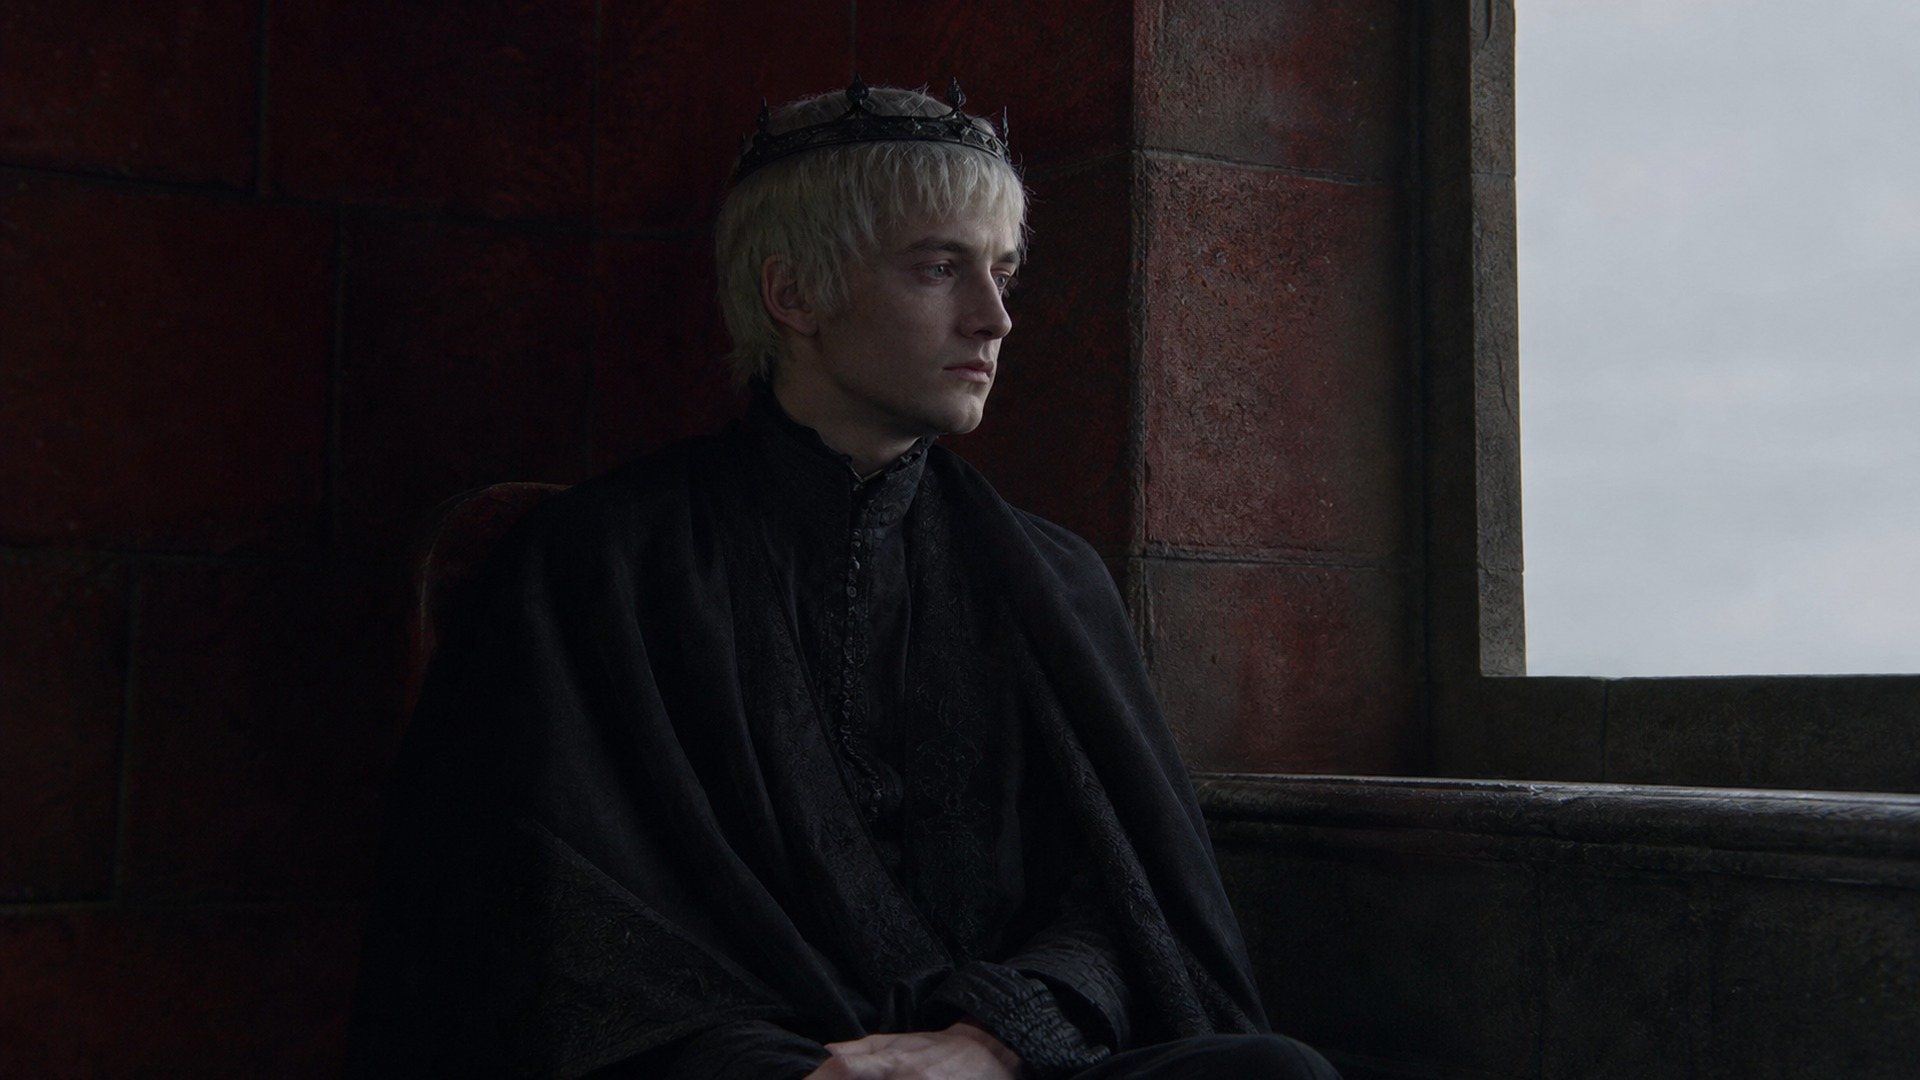
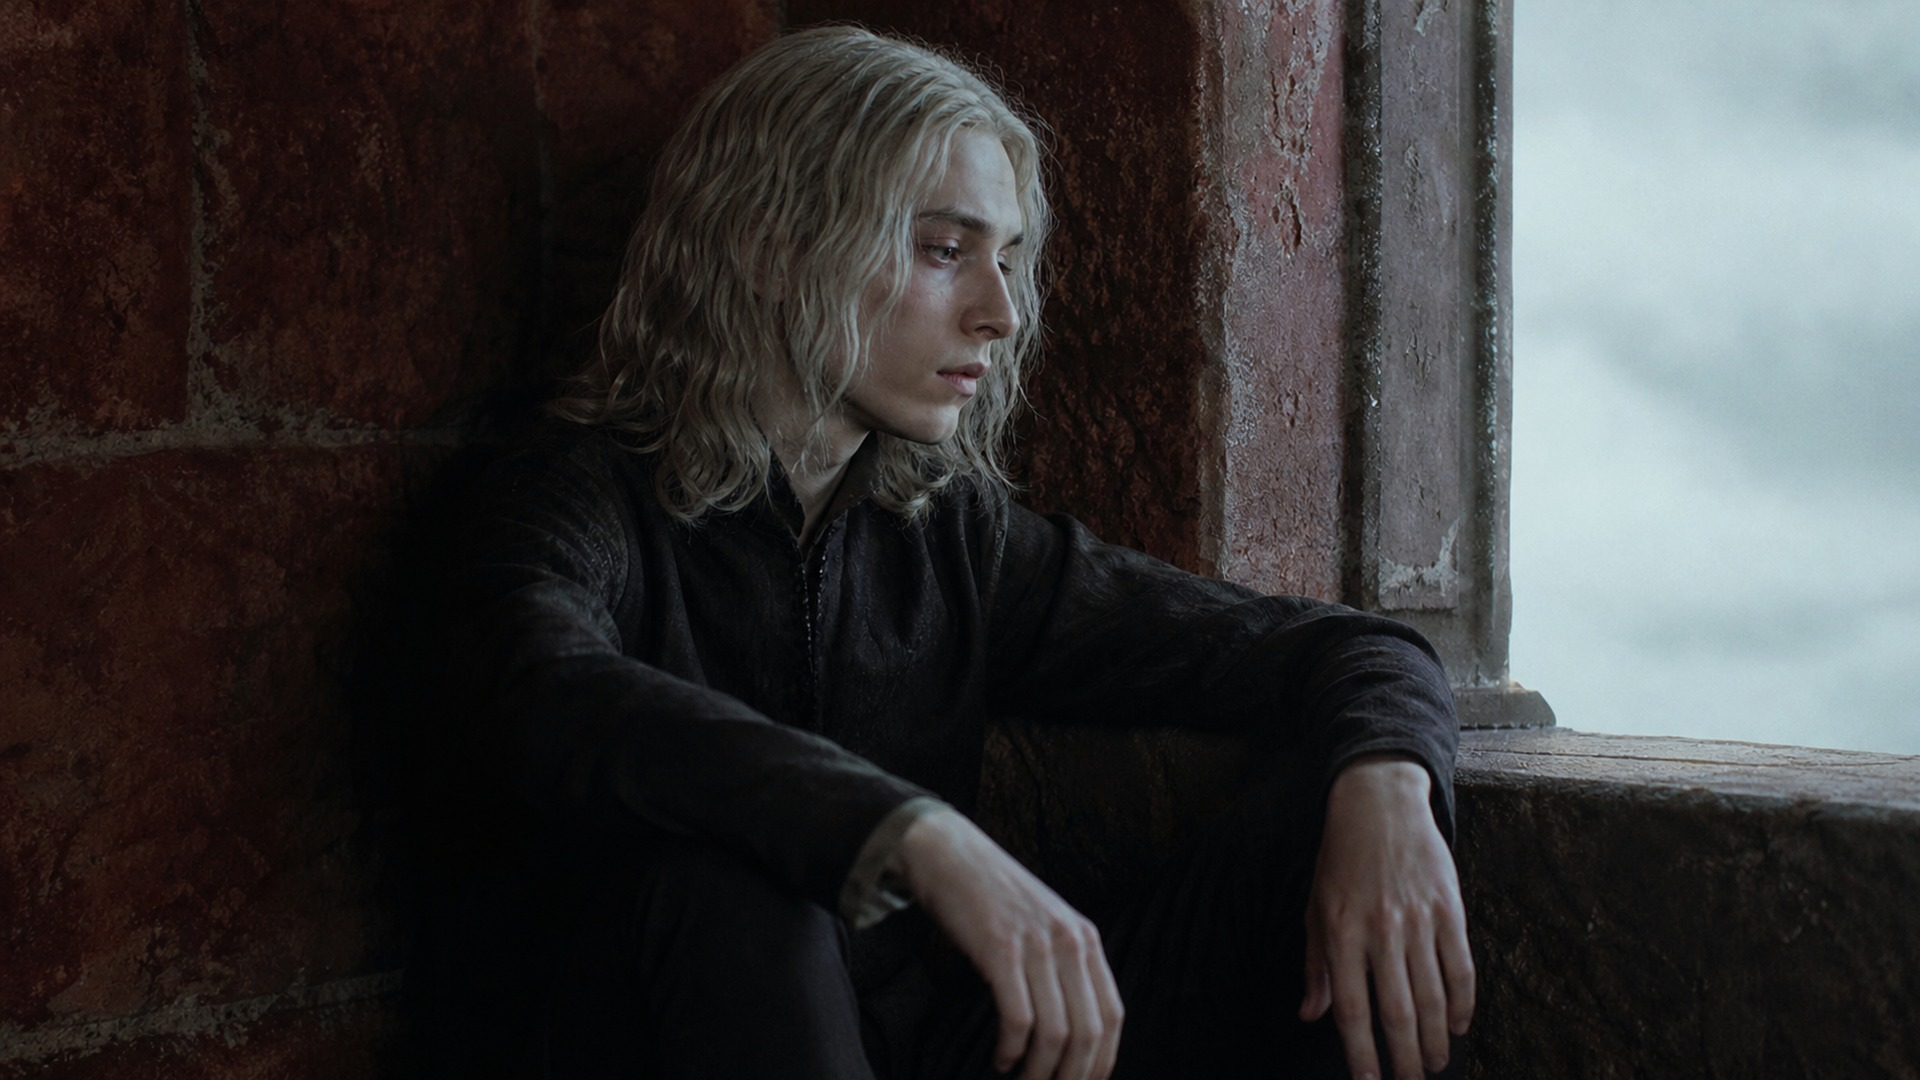
GOT003: BATCH011 10/10; BATCH012 7 PASS/1 REDO/1 pending; S121 PASS; plan through VII-33; tracker v2.84

diff --git a/projects/dune_archives/tools/plans/got003_plan.py b/projects/dune_archives/tools/plans/got003_plan.py
@@ -152,11 +152,21 @@ PLAN = [
  ('VI', 1, None, N('AEGON_III_BROKEN', 'MS', [], 'King Aegon III as a young man of about seventeen, thin and melancholy with lank natural pale silver hair hanging to his shoulders, a gaunt hollow-cheeked face with a long narrow nose and dark haunted purple eyes, an invented original ordinary face, NO crown, dressed all in black, seen in three-quarter profile, sitting alone on a window seat in a dim red stone chamber, looking out at an empty grey sky, restrained, the only figure in the image'), 'PUSH_IN'),
  ('VI', 8, None, N('LAST_DRAGON', 'EST', [], 'inside a vast dim domed stone dragonpit, a single small, thin, sickly pale-green dragon lying curled on the stone floor, its wings stunted, ribs showing, eyes half closed, a shaft of grey light from a crack in the dome, dust, utterly lonely, NO people'), 'PUSH_IN'),
  ('VI', 11, None, N('EASTERN_MAGES', 'EST', [], 'nine robed mages from distant eastern lands in exotic robes of many colours, faces in shadow, standing in a circle in a dark stone chamber around a great iron brazier where several large stone-like dragon eggs rest in the coals, smoke, chanting, mysterious, an unseen king watching from the shadows'), 'PUSH_IN'),
- ('VI', 16, None, N('DAERON_YOUNG_DRAGON', 'EST', [], 'King Daeron I, a bold bright boy king of fourteen with natural pale silver-gold hair and an eager confident face, an invented original face, in gilded black armour on a white horse, leading a long column of soldiers through a narrow pass between red mountains, banners of plain black and red, harsh sunlight, restrained'), 'PAN_LR'),
+ ('VI', 16, None, N('DAERON_YOUNG_DRAGON', 'EST', [], 'King Daeron I, a bold boy king of fourteen seen from behind and in partial profile, long natural pale silver hair blowing out from under an open-faced black helm with a small crown, an invented original face, in gilded black armour on a white horse, raising his sword to lead a long column of soldiers through a narrow pass between red mountains, banners of plain black and red, harsh sunlight, restrained'), 'PAN_LR'),
  ('VI', 19, None, N('SUNSPEAR', 'EW', [], 'Sunspear, a sand-coloured castle-palace by a turquoise sea as described in the books: a great slender tower, a huge golden dome of gold and glass, a tall spire, layers of curving sandstone walls winding through a small dusty town, palm trees, harsh golden sunlight, NO people close up'), 'PULL_OUT'),
  ('VI', 26, None, N('BAELOR_BAREFOOT', 'EW', [], 'King Baelor the Blessed, a thin pale ascetic young man with natural silver-gold hair cut short, an invented original face, in a simple rough undyed septon\'s robe, walking barefoot alone along a stony track through red mountains and desert under a fierce sun, a wooden staff, his feet dusty, serene, seen at a distance'), 'PAN_LR'),
  ('VI', 28, None, N('VIPER_PIT', 'EST', [], 'a deep stone pit in a desert fortress writhing with hundreds of vipers, a thin barefoot man in a plain undyed robe calmly climbing down into it toward an iron cage hanging above the pit in which a tall knight in white is imprisoned, harsh shafts of sunlight from above, tense, no gore'), 'PUSH_IN'),
- ('VI', 34, None, N('MAIDENVAULT', 'EST', [], 'three young princesses with natural pale silver-gold hair in plain grey gowns gazing out from the narrow barred window of a tall red stone tower at dusk, seen from outside and below, invented original faces, wistful and trapped, restrained'), 'TILT_UP'),
+ ('VI', 34, None, N('MAIDENVAULT', 'EST', [], 'a tall slender tower of red stone inside a castle at dusk, its door shut and guarded, high up three small windows glowing with candlelight, three tiny distant feminine silhouettes visible in the lit windows, a lonely melancholy mood, the courtyard empty'), 'TILT_UP'),
  ('VI', 35, None, N('GREAT_SEPT', 'EW', [], 'the Great Sept of Baelor as described in the books: a vast seven-sided temple of white marble with a great dome and seven tall slender crystal towers, rainbow light glinting from the crystal, standing on a hill over a medieval city at sunrise, broad steps, NO arches in the foreground'), 'PULL_OUT'),
  ('VI', 42, None, N('AEGON_IV_UNWORTHY', 'MS', [], 'King Aegon IV, a hugely fat vain middle-aged king with greasy thinning silver-gold hair, small greedy eyes and heavy jowls, an invented original face, in gaudy jewelled crimson silk with a gold crown, lounging at a lavish feast surrounded by beautiful women and piled food, a smug look, restrained'), 'PUSH_IN'),
+ ('VI', 44, None, N('WOODEN_DRAGONS', 'EW', [], 'huge wooden siege engines carved in the shape of dragons, built of timber, rope and iron, burning out of control on a rocky coastal plain at dusk, flames and black smoke pouring from their wooden heads and wings, seen from far away, absurd and tragic, NO people close up'), 'PUSH_IN'),
+ ('VI', 49, None, N('BLACKFYRE_GIFT', 'MS', [], 'a fat crowned king in crimson silk handing a long sword with a black rippled Valyrian steel blade and a hilt of gold and rubies to a tall, strong young knight with dark hair and violet eyes kneeling before him, an invented original face, in a dim throne room, other courtiers watching jealously in shadow, restrained'), 'PUSH_IN'),
+ ('VII', 0, None, N('DAERON_II_SCHOLAR', 'MS', [], 'King Daeron II the Good, a slim gentle scholarly king of about thirty-five with natural pale silver-gold hair, a neat beard, kind thoughtful tired purple eyes, an invented original face, a simple circlet, reading a large book by a window in a library full of scrolls and books, restrained, the only figure in the image, NO readable writing'), 'PUSH_IN'),
+ ('VII', 7, None, N('DORNISH_WEDDING', 'EST', [], 'a wedding in a sun-drenched sandstone sept with lattice windows: a silver-haired Targaryen princess in pale silk and a dark-haired olive-skinned Dornish prince in orange and gold silk standing hand in hand, a septon before them, guests in flowing silks, golden light, joyful and peaceful, faces small'), 'PUSH_IN'),
+ ('VII', 13, None, N('DAEMON_BLACKFYRE', 'MS', [], 'Daemon Blackfyre, a tall, broad, strikingly handsome warrior of about twenty-five with dark hair, a short dark beard and violet eyes, an invented original face, in black plate armour with a red cloak, holding a long black-bladed Valyrian steel sword upright before him, a tourney field and admiring knights blurred behind, confident, restrained, the only clear figure'), 'PUSH_IN'),
+ ('VII', 19, None, N('BLACKFYRE_BANNER', 'MS', [], 'a huge red silk banner with a black dragon with EXACTLY THREE heads embroidered on it, NOT inside a circle, rippling in the wind above a war camp at dawn, many smaller red banners with black dragons behind, smoke, dramatic sky'), 'PUSH_IN'),
+ ('VII', 21, None, N('REDGRASS_FIELD', 'EW', [], 'two great medieval armies drawn up facing each other across a wide field of reddish-brown summer grass under a heavy sky, one side with red banners and the other with black banners, mounted knights in front, seen from a hill far away, tense before the charge'), 'PAN_LR'),
+ ('VII', 25, None, N('BLOODRAVEN_YOUNG', 'CU', [], 'Brynden Rivers as described in the books, a pale thin young albino man of about twenty with long straight white hair, blood-red eyes and very pale skin, a wine-coloured birthmark on his cheek and neck, an invented original face, a dark smoky-grey cloak, a tall weirwood longbow over his shoulder, cold and watchful, restrained, the only figure in the image'), 'PUSH_IN'),
+ ('VII', 29, None, N('RAVENS_TEETH', 'EW', [], 'a long line of archers on a ridge loosing a great volley of arrows into a grey sky, the arrows arcing high over a red grass field toward a distant charge of knights, a pale white-haired commander on a horse among them, seen from behind the archers, no gore'), 'PAN_LR'),
+ ('VII', 33, None, N('GOLDEN_COMPANY', 'EW', [], 'a disciplined army of sellswords in gilded armour marching beneath tall poles topped with gold-dipped skulls, plain cloth-of-gold banners, across a dry eastern plain at sunset, elephants far behind, seen from a distance, proud and exotic'), 'PAN_LR'),
 ]

diff --git a/projects/dune_archives/00_master/MASTER_INDEX_AND_TRACKER.md b/projects/dune_archives/00_master/MASTER_INDEX_AND_TRACKER.md
@@ -760,5 +760,6 @@ Index/QC v21 Doc: `1Xd5uubuVr8HSOOF7w4-m3S2es9A0PhxvI7hFvTYLZpw`. S012/S016 turn
 | v2.81 | 2026-11-28 | GOT003 S082 Alysanne redo PASS (original look), S086, S088–S090 PASS → BATCH009 10/10. Plan extended through V-36 (100 stills). BATCH010 S091–S095 PASS (Viserys, dragons high summer, young Rhaenyra, lords swear, Alicent). S096–S100 pending. 95/100 done. |
 | v2.82 | 2026-11-28 | GOT003 S096–S099 PASS, **S100 AEMOND_SAPPHIRE REDO** (elfin/actor-like, sapphire reads as eye). Plan extended through V-82 (110 stills). BATCH011 S101, S102, S104, S105 PASS; **S103 RHAENYRA_CROWNED REDO** (too close to HBO look). S106–S110 pending. |
 | v2.83 | 2026-11-28 | GOT003 S100, S103 redos PASS → BATCH010 10/10. S106, S108–S110 PASS; **S107 NETTLES blocked by content filter** (rephrased). Plan extended through VI-42 (120 stills). BATCH012 S112, S113 PASS; **S111 AEGON_III REDO** (read like the GoT Joffrey actor). |
+| v2.84 | 2026-11-28 | GOT003 S107 Nettles (rephrased) PASS → BATCH011 10/10. S111 redo PASS; S115–S117, S119, S120 PASS; **S114 DAERON REDO** (Joffrey-like drift); **S118 MAIDENVAULT blocked by filter** (rephrased to tower exterior). Plan extended through VII-33 (130 stills). S121 WOODEN_DRAGONS PASS. |
 
 > Turn 22 note: the old manifests v11, continuity v1.4 and original tracker Doc have their Drive descriptions set to SUPERSEDED, pointing at the new IDs above. The Drive tracker v2.12 Doc is a snapshot taken before its own ID was added here.
